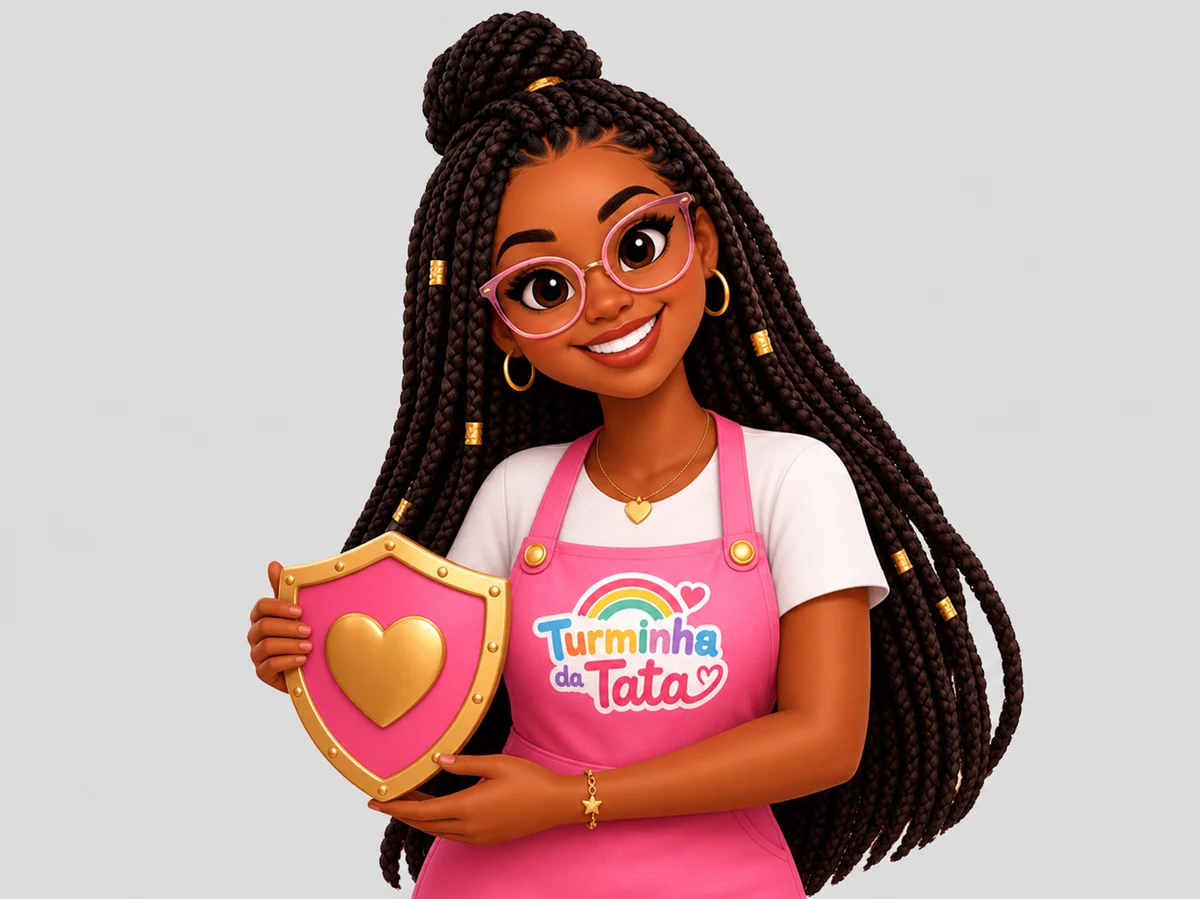
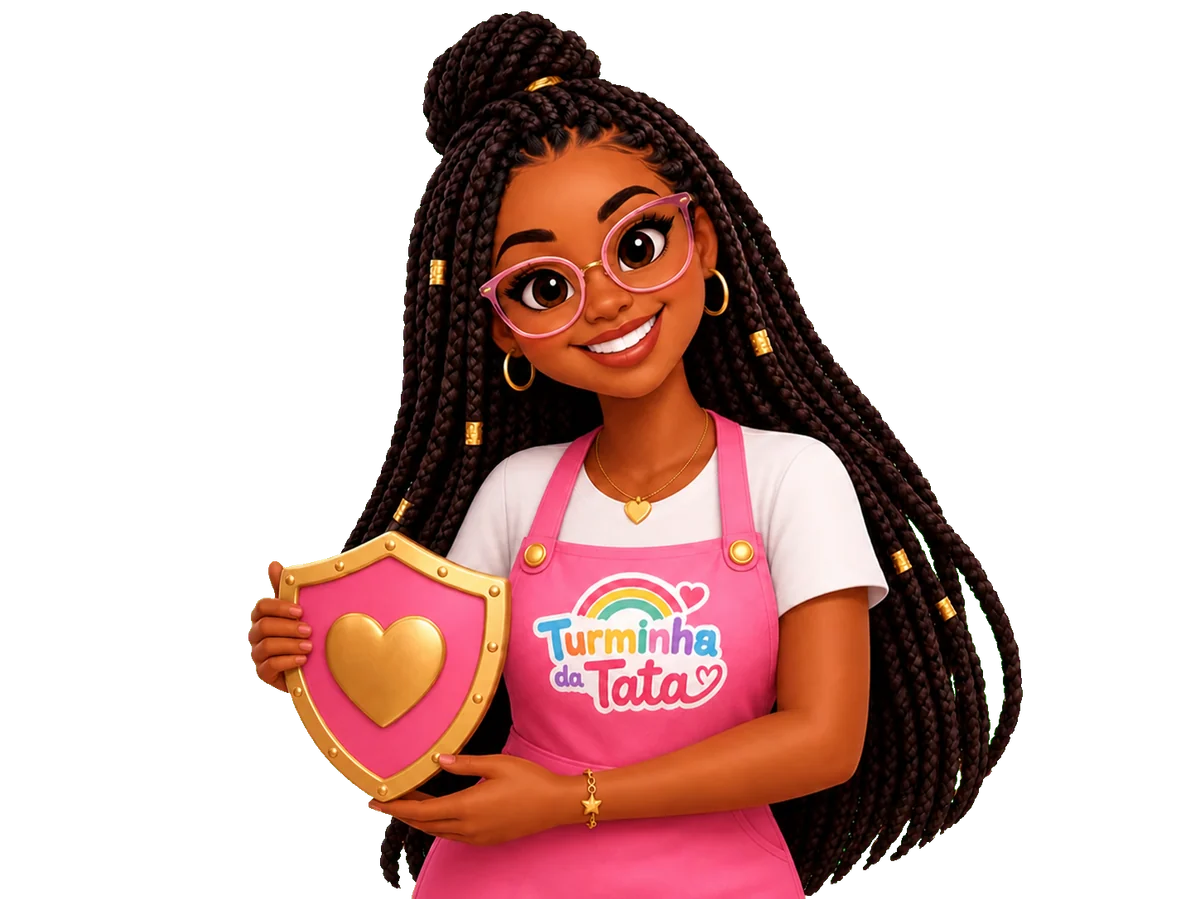
fix: make all Tata scenes transparent

diff --git a/docs/TATA-SCENES-AND-TURNSTILE.md b/docs/TATA-SCENES-AND-TURNSTILE.md
@@ -2,7 +2,8 @@
 
 `TataScene` centraliza 16 cenas determinísticas: `WELCOME`, `LOGIN`, `SECURITY`, `ENROLLMENT`,
 `GUIDE_LEFT`, `GUIDE_RIGHT`, `THINKING`, `SUCCESS`, `CELEBRATION`, `EMPTY`, `ERROR`, `PARENTS`,
-`CAREGIVER`, `SLEEPING` e `PHOTO`. Os WebP otimizados ficam em `public/images/tata/scenes`.
+`CAREGIVER`, `SLEEPING` e `PHOTO`. Os WebP otimizados ficam em `public/images/tata/scenes`; todos
+possuem canal alfa real para integração sem painéis ou fundos retangulares.
 
 `LOADING_HEART` é a cena de processamento. `TataLoading` oferece níveis `micro`, `contextual` e
 `immersive`, mensagens por contexto, espera de 250 ms para evitar flashes, permanência visual
